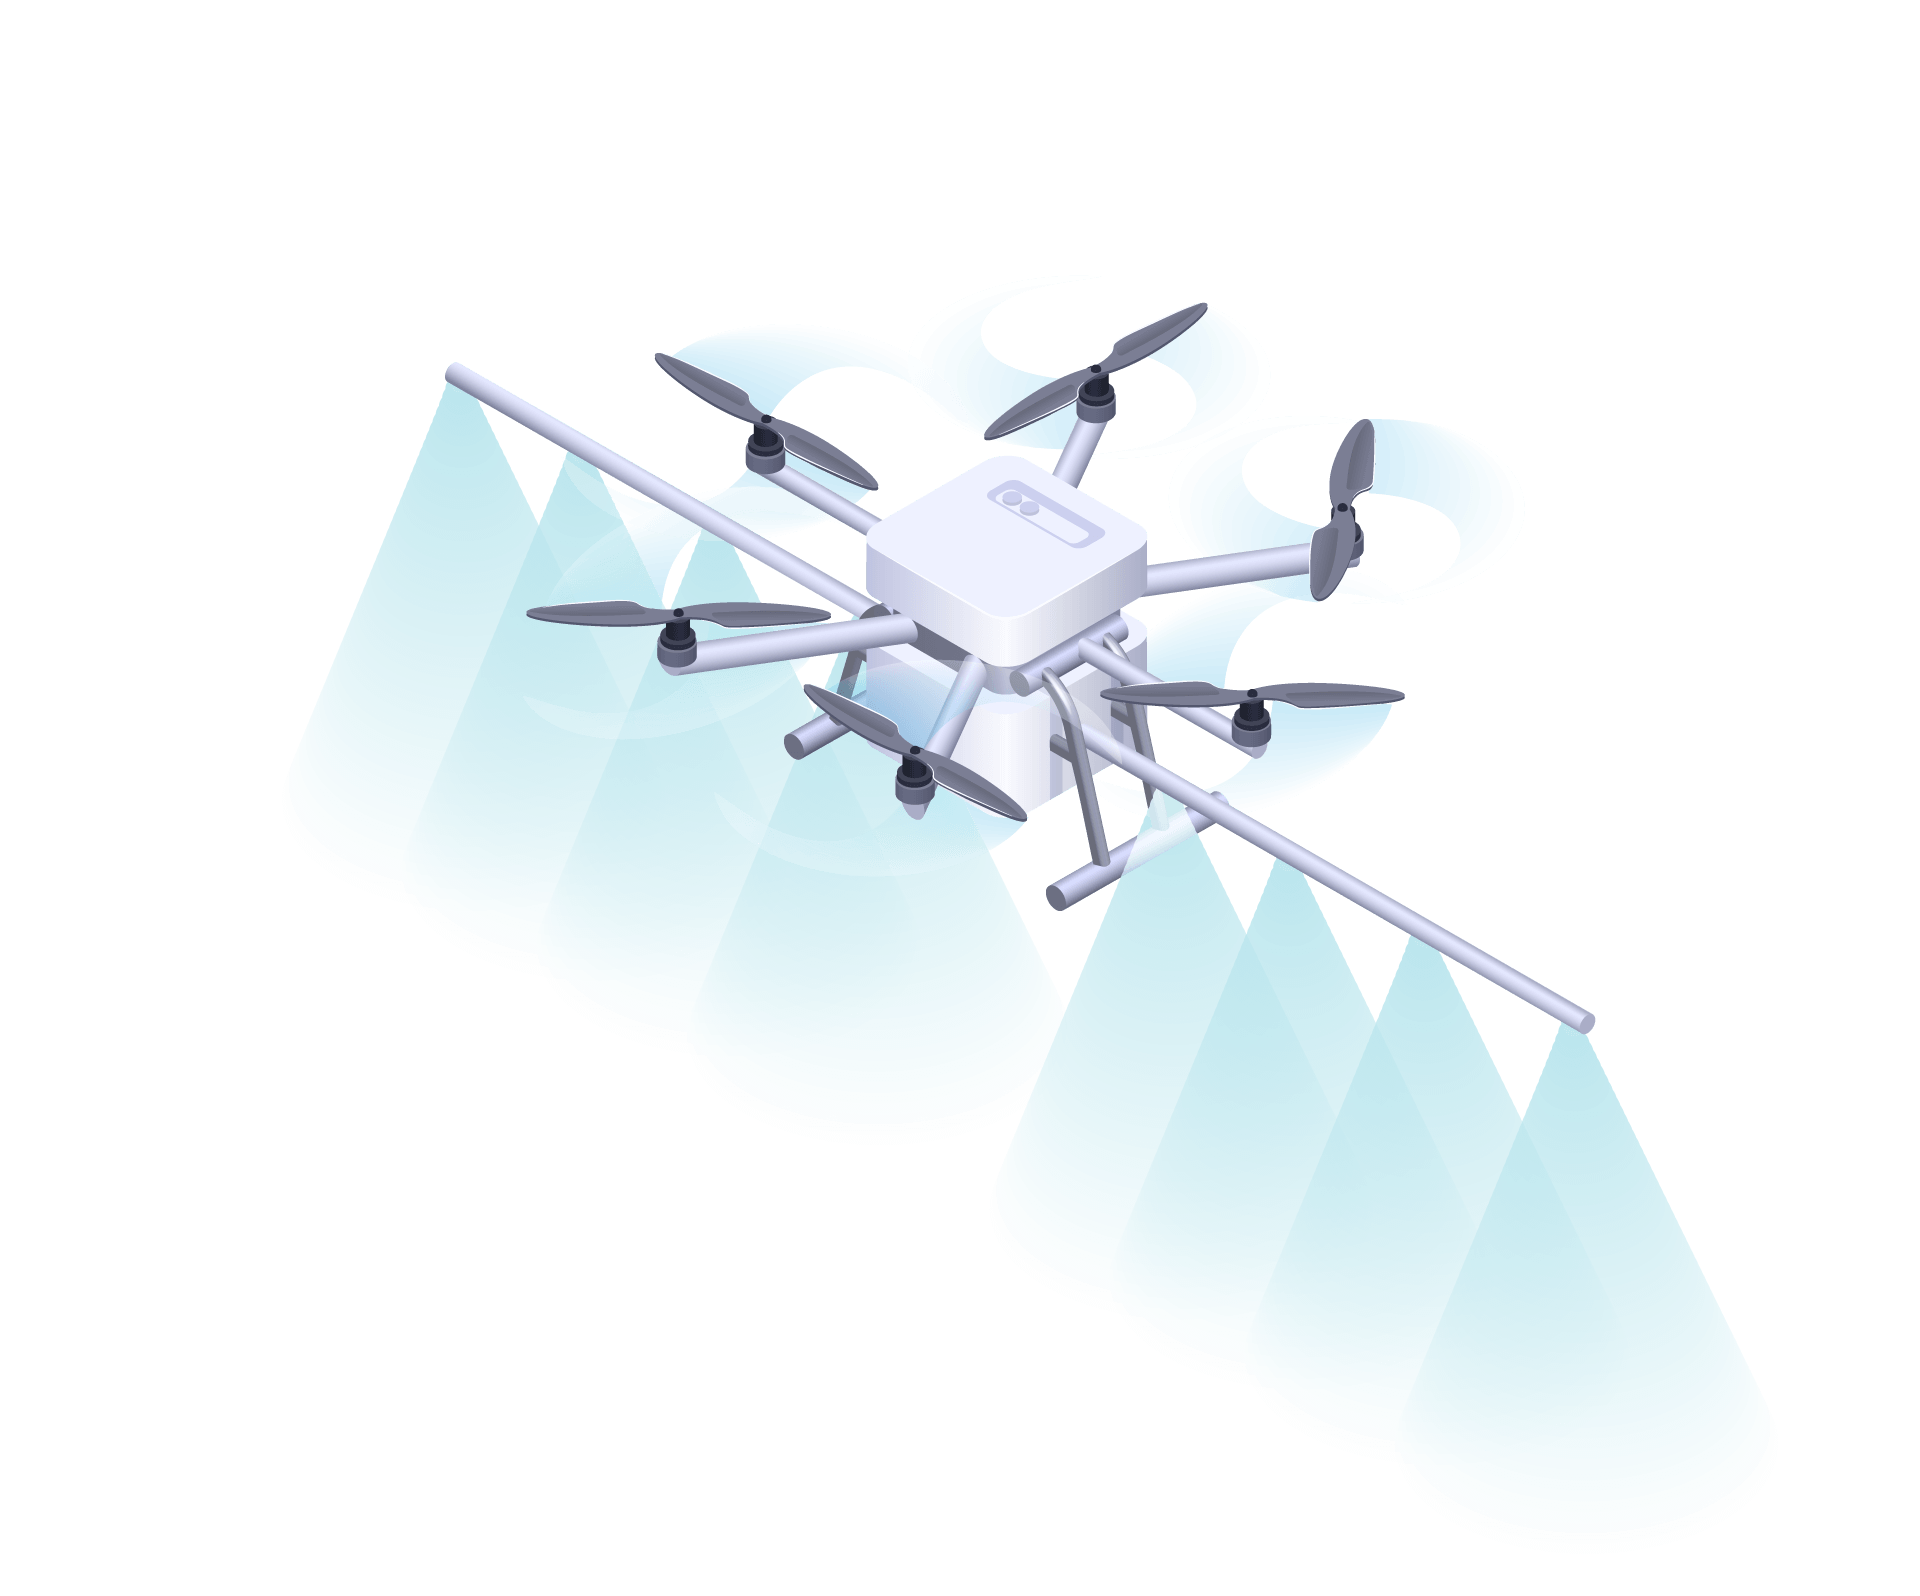
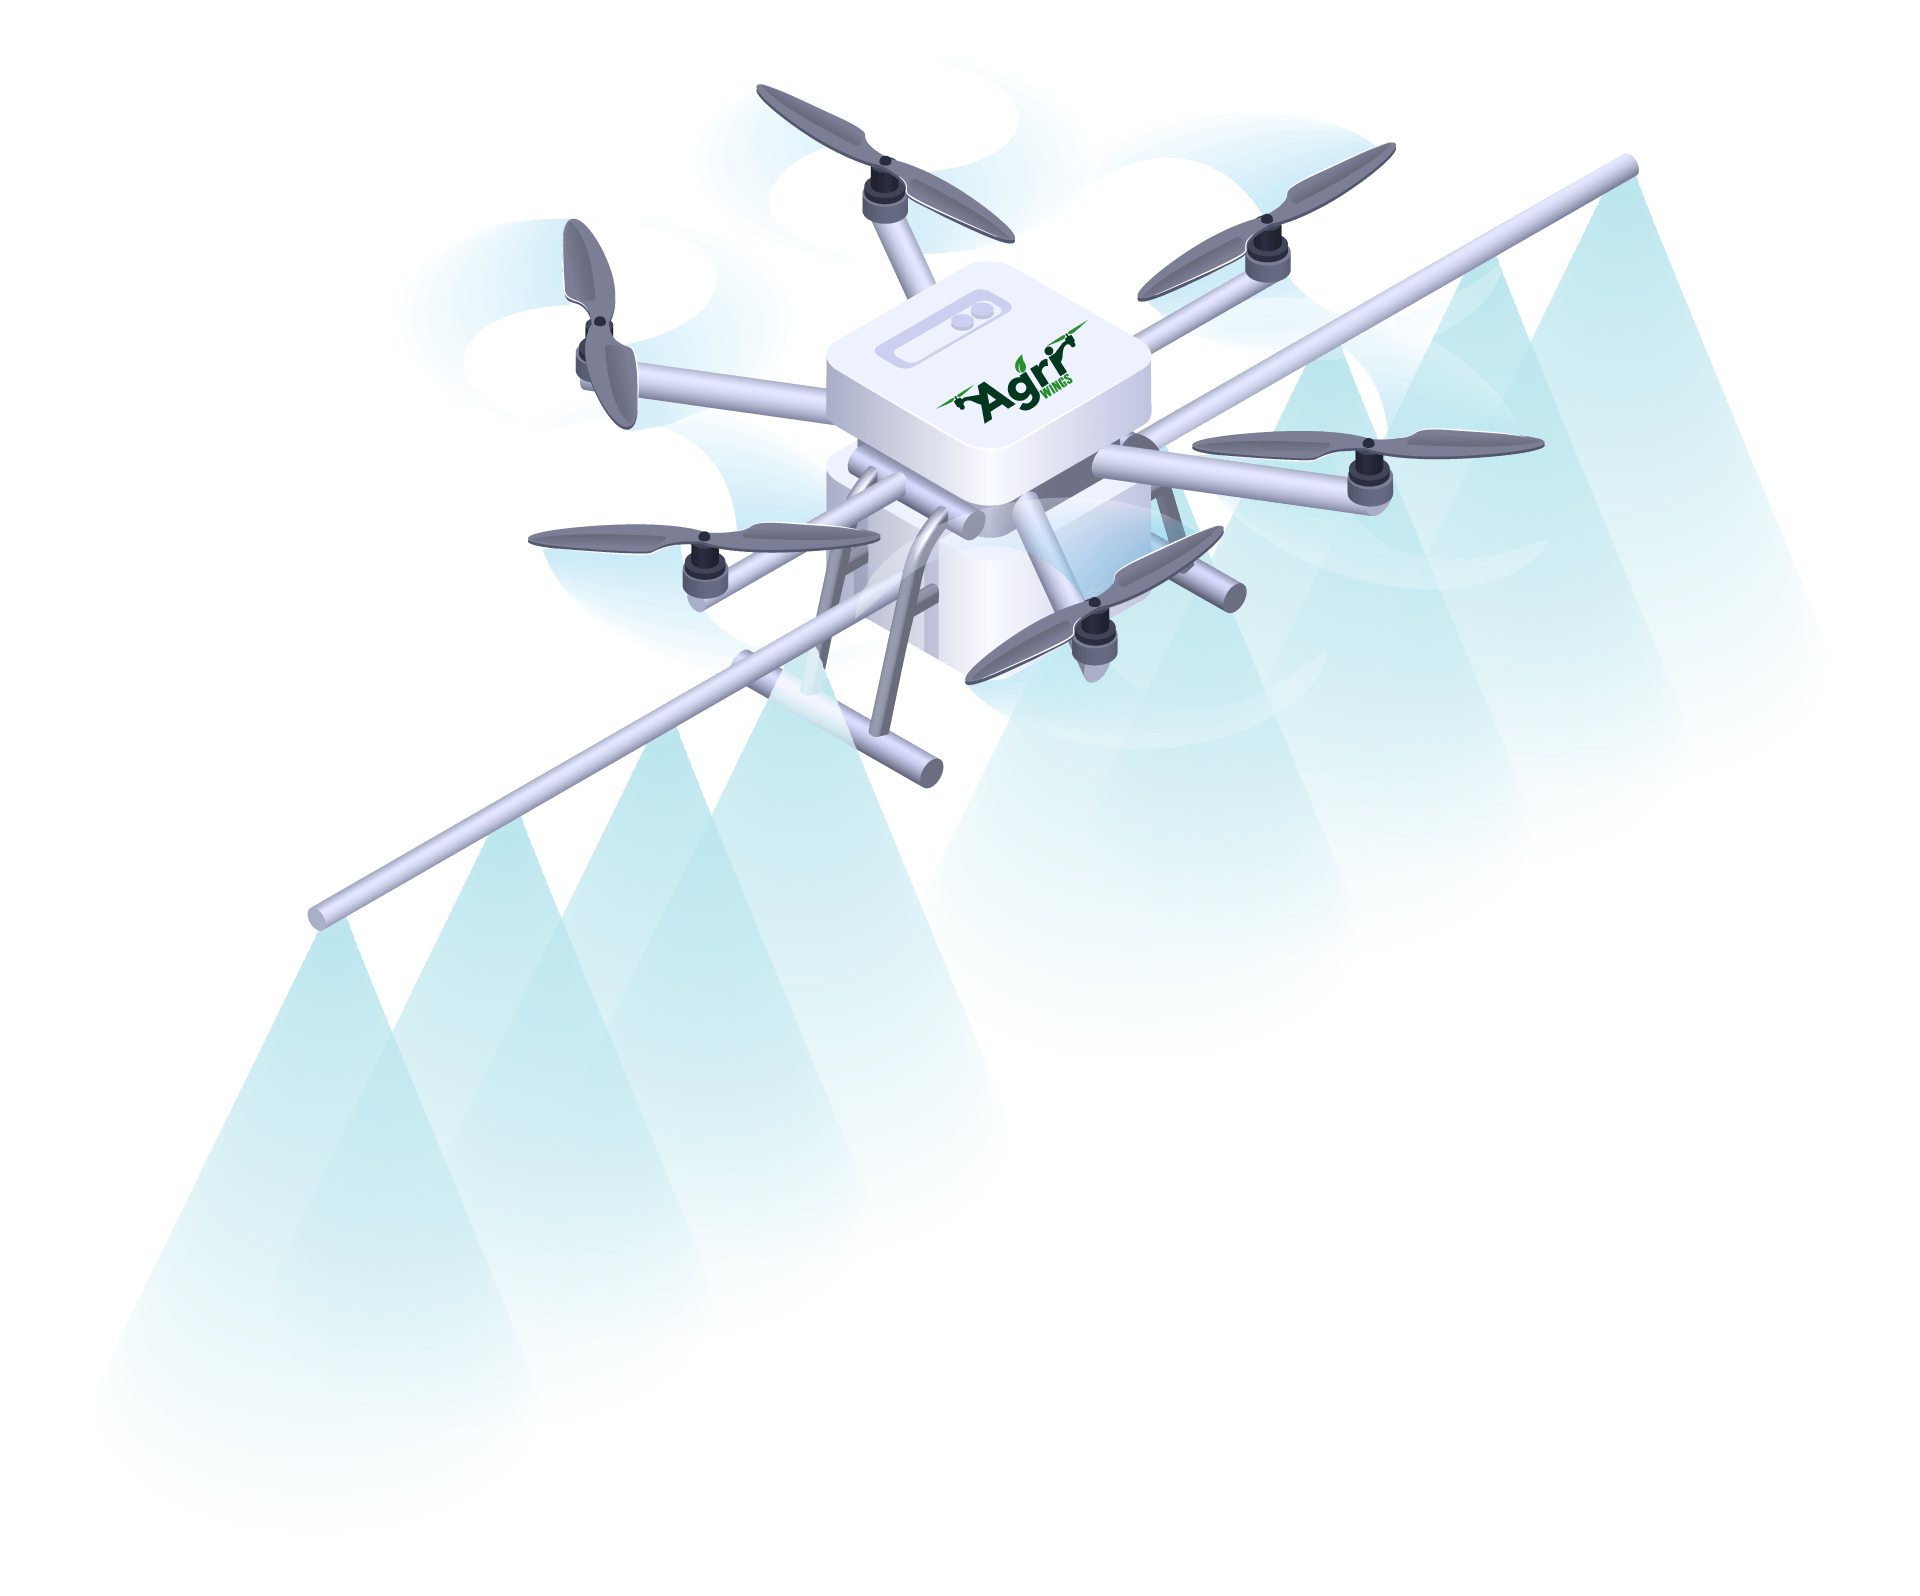
new chng

diff --git a/app/Http/Controllers/OrderController.php b/app/Http/Controllers/OrderController.php
@@ -1296,6 +1296,7 @@ class OrderController extends Controller
                  $regionalclient['baseclient_id'] = $baseclient_id;
                  $regionalclient['name'] = $get_consignee->nick_name.'-(Self Pay)';
                  $regionalclient['regional_client_nick_name'] = $get_consignee->nick_name;
+                 $regionalclient['status'] = 1;
 
                  $saveregional_client = RegionalClient::create($regionalclient);
                  $saveregional_client_id = $saveregional_client->id;

diff --git a/resources/views/auth/login.blade.php b/resources/views/auth/login.blade.php
@@ -40,7 +40,7 @@
 
     .droneImageBlock img {
         max-height: min(60vh, 350px);
-        transform: scaleX(-1);
+        /* transform: scaleX(-1); */
     }
 
     .loginBlock {
